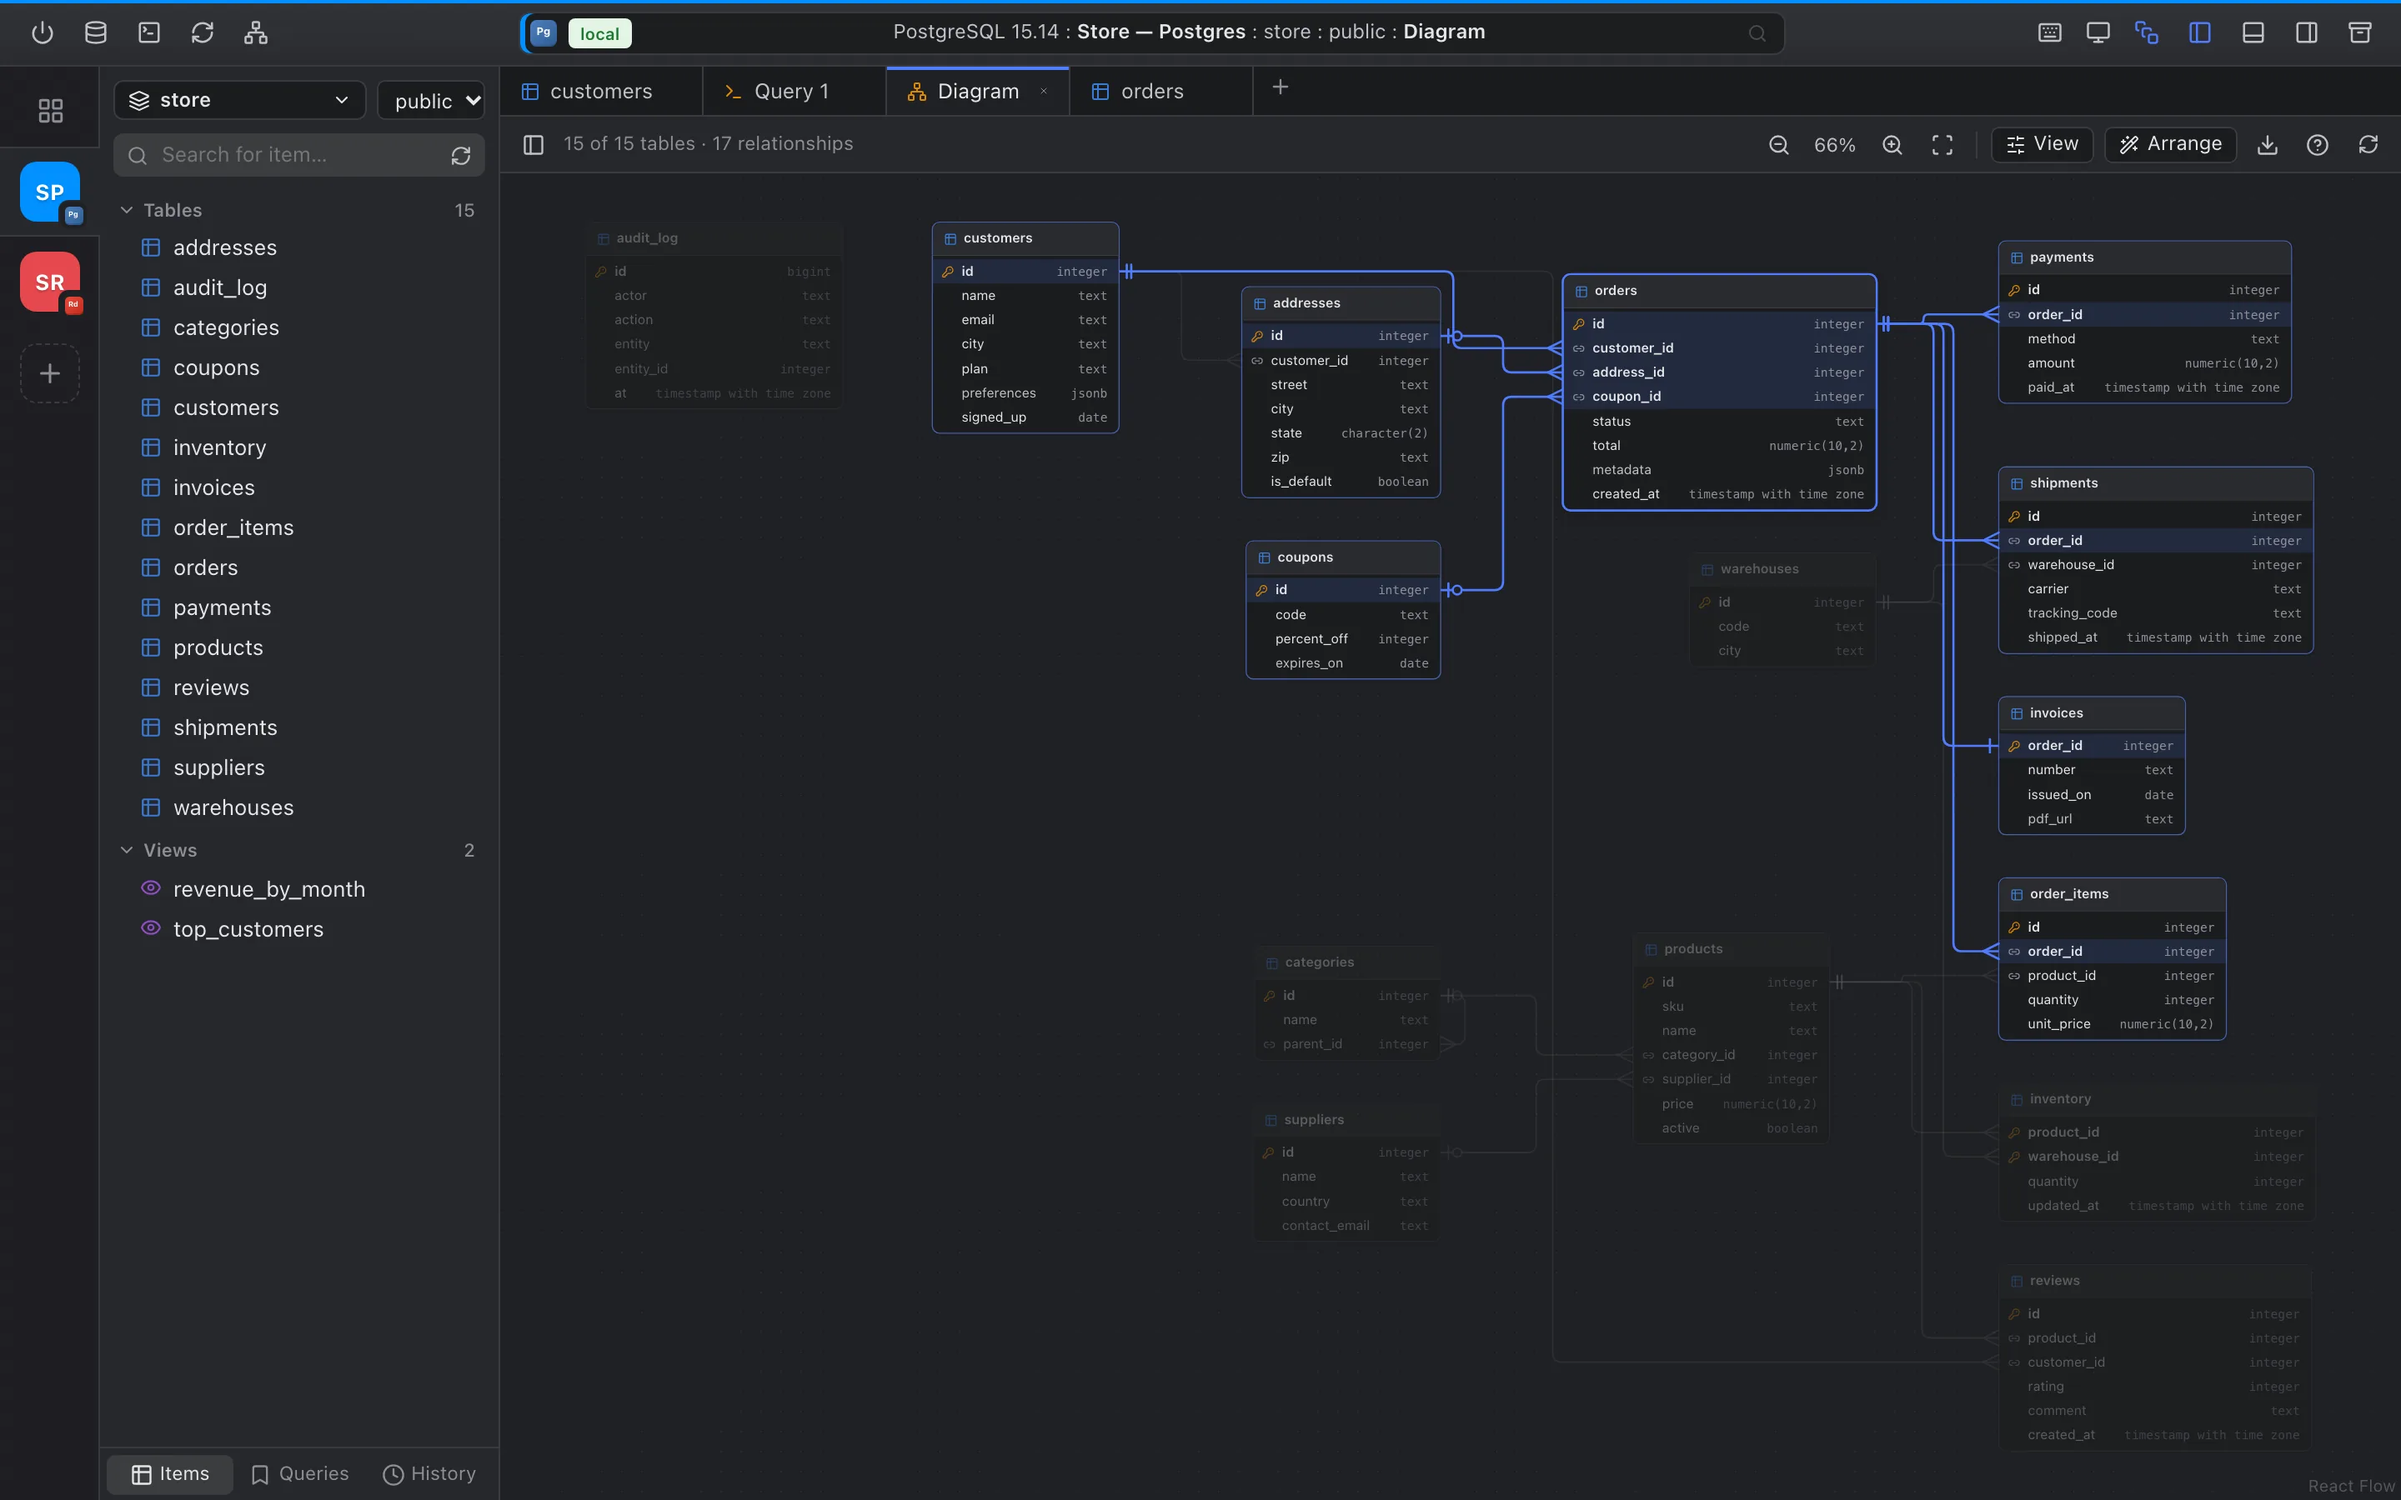
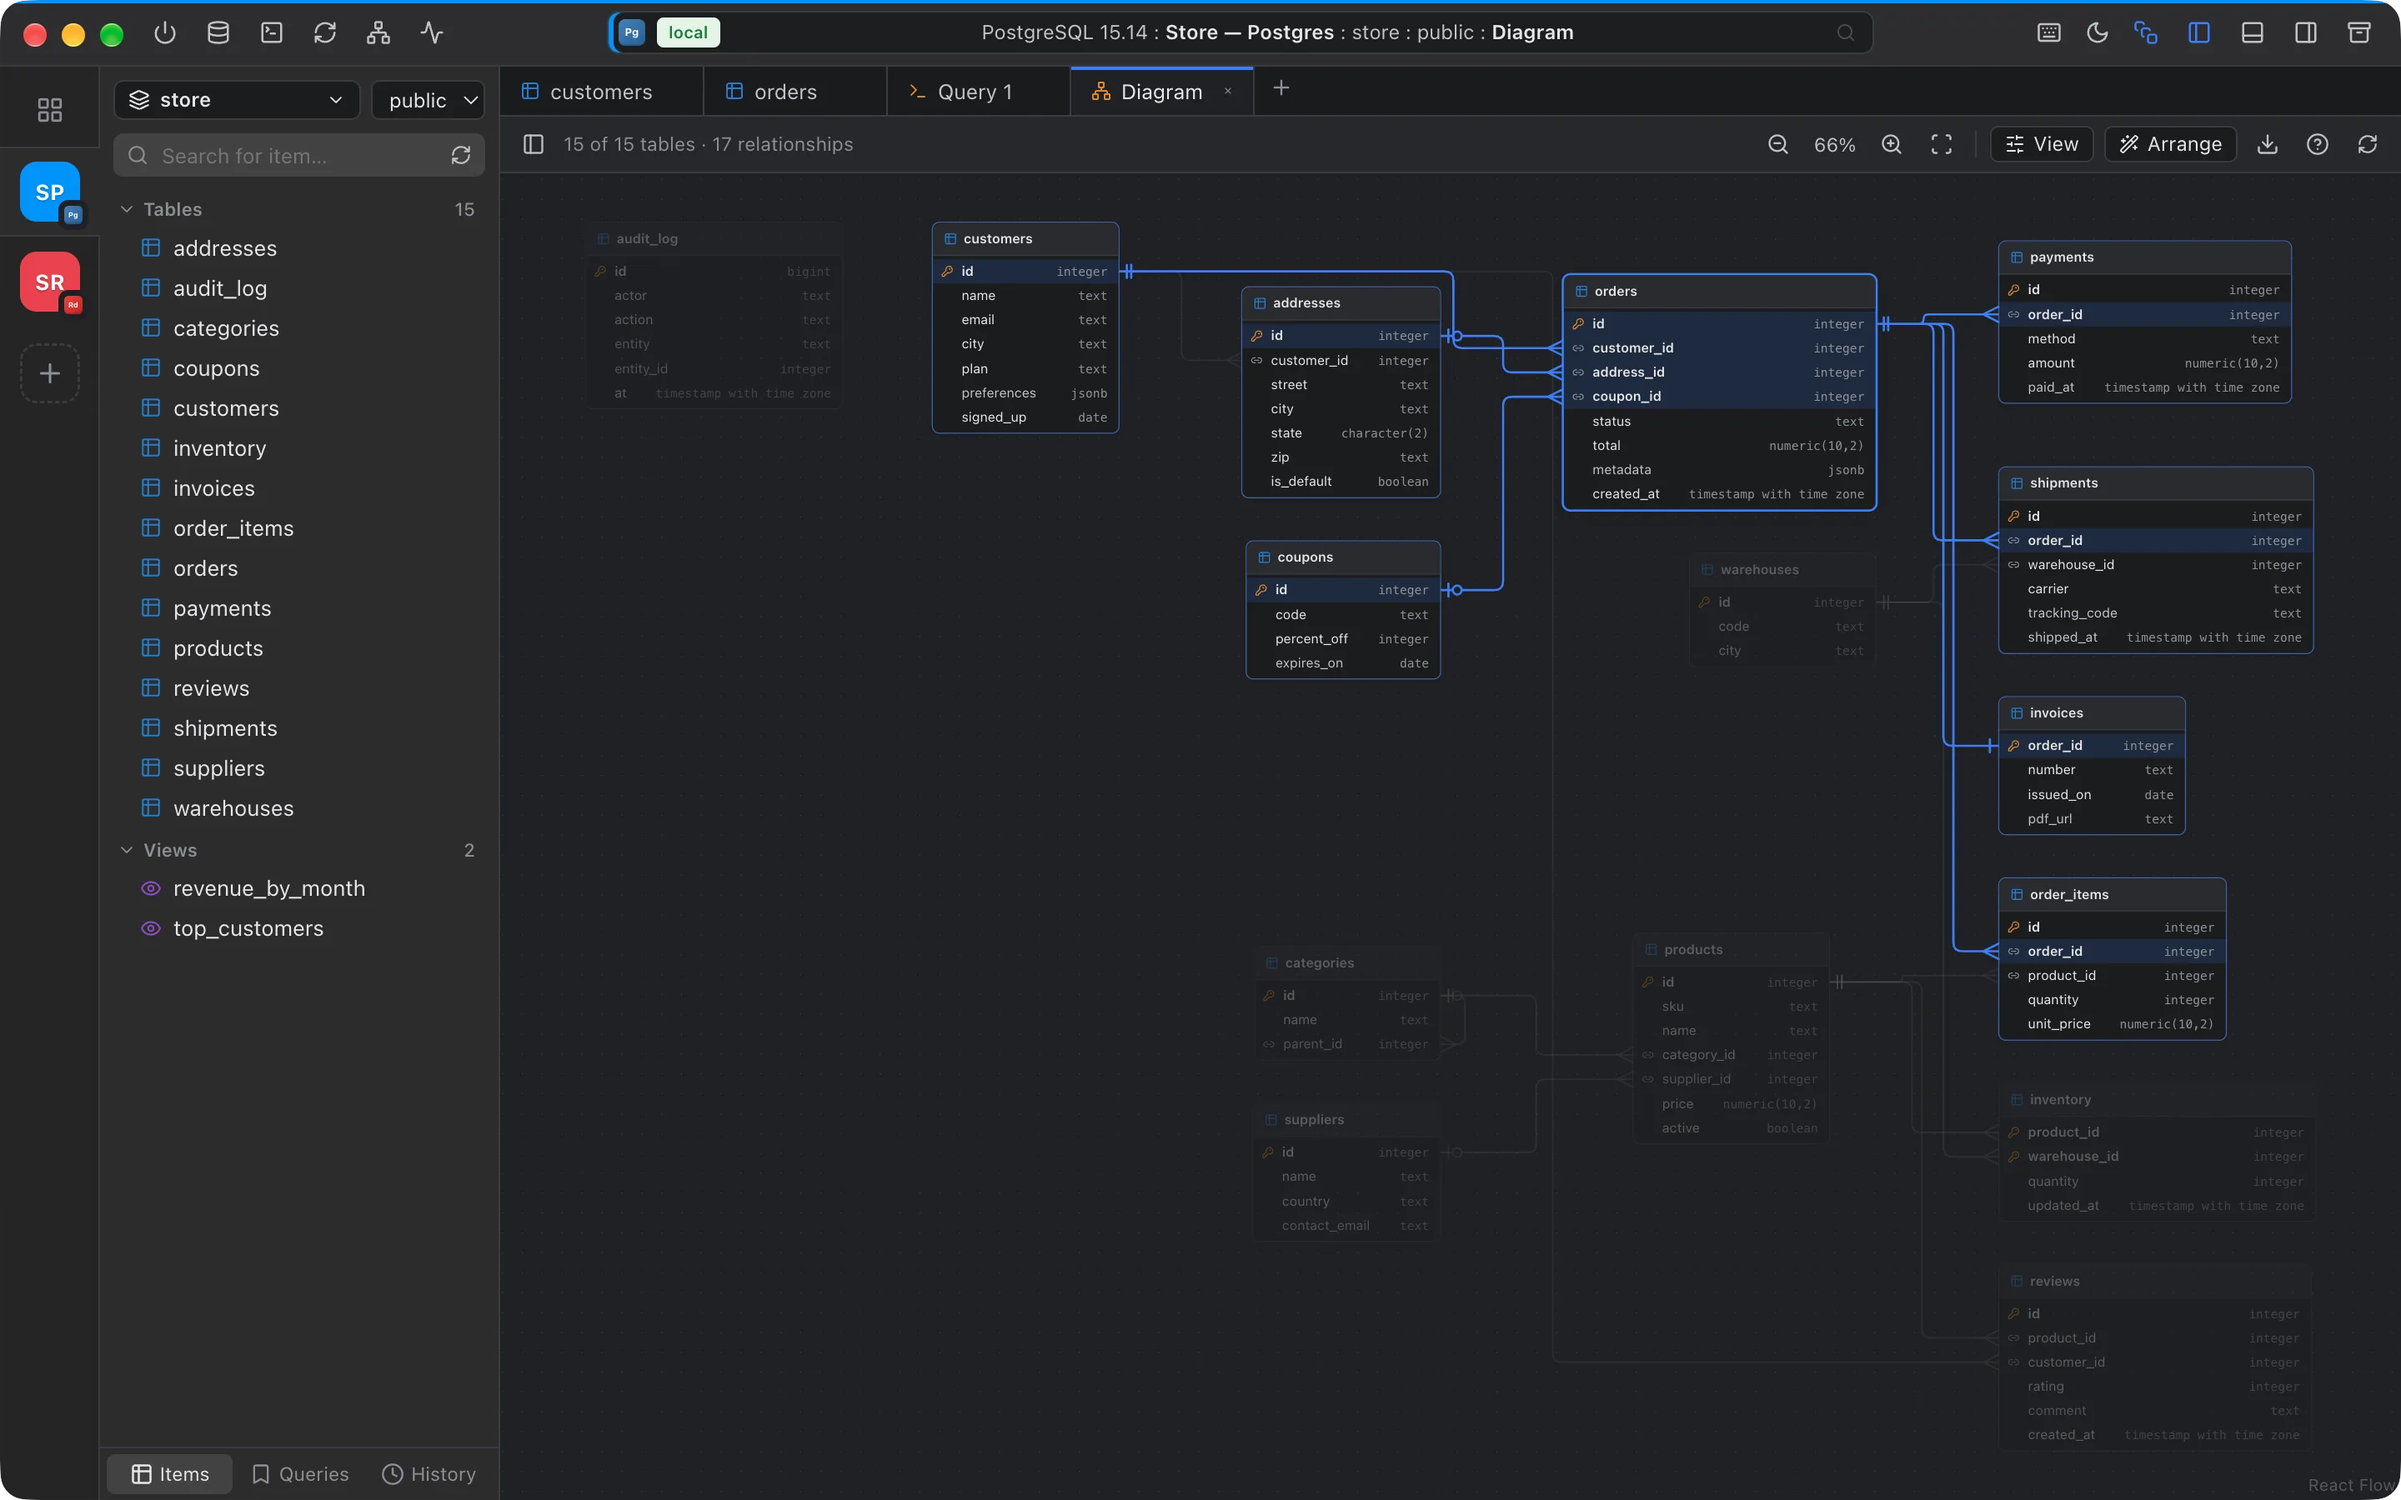
Screenshots of the macOS app (native window), and a macOS section with the light theme

diff --git a/index.html b/index.html
@@ -135,17 +135,10 @@
   .hero-shot { position: relative; margin-top: 72px; }
 
   /* App window */
-  .window {
-    border-radius: 14px; overflow: hidden;
-    background: var(--grafite);
-    border: 1px solid var(--line-strong);
-    box-shadow: 0 40px 120px -30px rgba(79,124,255,.35), 0 0 0 1px rgba(0,0,0,.4);
+  /* The screenshots are real macOS windows: their own title bar, rounded corners with transparency. */
+  .window img, .code-band img.shot {
+    filter: drop-shadow(0 0 1px rgba(255,255,255,.28)) drop-shadow(0 36px 60px rgba(79,124,255,.22));
   }
-  .window-bar { display: flex; align-items: center; gap: 8px; height: 36px; padding: 0 14px; border-bottom: 1px solid var(--line); background: #141417; }
-  .window-bar i { width: 11px; height: 11px; border-radius: 50%; background: #3f3f46; }
-  .window-bar span { margin-left: 10px; font: 500 12px/1 var(--sans); color: var(--muted); display: flex; align-items: center; gap: 6px; }
-  .window-bar span img { width: 14px; height: 14px; }
-  .hero-shot .window { border-bottom-left-radius: 0; border-bottom-right-radius: 0; border-bottom: 0; }
   .hero-shot::after {
     content: ""; position: absolute; left: 0; right: 0; bottom: 0; height: 35%;
     background: linear-gradient(to bottom, rgba(10,10,11,0), var(--onix));
@@ -212,7 +205,6 @@
   .code .t { color: var(--ciano); }
   .code .n { color: var(--violeta); }
   .code .s { color: var(--azul); }
-  .code-band img.shot { border-radius: 14px; border: 1px solid var(--line-strong); }
 
   /* Download */
   .download { text-align: center; position: relative; overflow: hidden; }
@@ -281,7 +273,6 @@
     .feature, .feature:nth-child(n) { border-right: 0; border-bottom: 1px solid var(--line); }
     .feature:last-child { border-bottom: 0; grid-column: auto; }
     .dbs ul { gap: 20px; }
-    .window-bar { height: 28px; }
     .tabs { width: 100%; flex-wrap: nowrap; gap: 2px; overflow-x: auto; scrollbar-width: none; }
     .tabs::-webkit-scrollbar { display: none; }
     .tabs button { flex: none; justify-content: center; padding: 0 12px; font-size: 13px; gap: 6px; }
@@ -325,8 +316,7 @@
       </div>
       <div class="hero-shot">
         <div class="window">
-          <div class="window-bar"><i></i><i></i><i></i><span><img src="assets/navql-icone.svg" alt="">NavQL</span></div>
-          <img src="assets/shots/table-1440.webp" srcset="assets/shots/table-1440.webp 1440w, assets/shots/table.webp 2880w" sizes="(max-width: 1180px) 100vw, 1132px" fetchpriority="high" alt="NavQL showing the customers table of a PostgreSQL database, with the list of tables and views on the left" width="2880" height="1800">
+          <img src="assets/shots/table-1440.webp" srcset="assets/shots/table-1440.webp 1440w, assets/shots/table.webp 2880w" sizes="(max-width: 1180px) 100vw, 1132px" fetchpriority="high" alt="NavQL on macOS showing the customers table of a PostgreSQL database, with the list of tables and views on the left" width="2880" height="1800">
         </div>
       </div>
     </div>
@@ -393,7 +383,7 @@
 
       <div class="panel" id="p-conn" role="tabpanel" aria-labelledby="t-conn">
         <div class="tour-grid">
-          <div class="window"><div class="window-bar"><i></i><i></i><i></i></div>
+          <div class="window">
             <img src="assets/shots/connections-1440.webp" srcset="assets/shots/connections-1440.webp 1440w, assets/shots/connections.webp 2880w" sizes="(max-width: 960px) 100vw, 800px" alt="NavQL connection list for the Store project: PostgreSQL, Redis, SQL Server and MongoDB connections, each with its own color and tag" loading="lazy" width="2880" height="1800"></div>
           <div class="tour-copy">
             <h3>Every connection at a glance</h3>
@@ -412,7 +402,7 @@
 
       <div class="panel" id="p-data" role="tabpanel" aria-labelledby="t-data" hidden>
         <div class="tour-grid">
-          <div class="window"><div class="window-bar"><i></i><i></i><i></i></div>
+          <div class="window">
             <img src="assets/shots/value-1440.webp" srcset="assets/shots/value-1440.webp 1440w, assets/shots/value.webp 2880w" sizes="(max-width: 960px) 100vw, 800px" alt="Data grid of the orders table with the JSON of a cell shown as a tree in the side panel" loading="lazy" width="2880" height="1800"></div>
           <div class="tour-copy">
             <h3>Data in a fast grid</h3>
@@ -430,7 +420,7 @@
 
       <div class="panel" id="p-query" role="tabpanel" aria-labelledby="t-query" hidden>
         <div class="tour-grid">
-          <div class="window"><div class="window-bar"><i></i><i></i><i></i></div>
+          <div class="window">
             <img src="assets/shots/query-1440.webp" srcset="assets/shots/query-1440.webp 1440w, assets/shots/query.webp 2880w" sizes="(max-width: 960px) 100vw, 800px" alt="Query editor with a SELECT grouping revenue by city and the result below" loading="lazy" width="2880" height="1800"></div>
           <div class="tour-copy">
             <h3>A real SQL editor</h3>
@@ -448,7 +438,7 @@
 
       <div class="panel" id="p-struct" role="tabpanel" aria-labelledby="t-struct" hidden>
         <div class="tour-grid">
-          <div class="window"><div class="window-bar"><i></i><i></i><i></i></div>
+          <div class="window">
             <img src="assets/shots/structure-1440.webp" srcset="assets/shots/structure-1440.webp 1440w, assets/shots/structure.webp 2880w" sizes="(max-width: 960px) 100vw, 800px" alt="Structure of the orders table: columns, types, indexes and foreign keys" loading="lazy" width="2880" height="1800"></div>
           <div class="tour-copy">
             <h3>Structure, demystified</h3>
@@ -464,7 +454,7 @@
 
       <div class="panel" id="p-diagram" role="tabpanel" aria-labelledby="t-diagram" hidden>
         <div class="tour-grid">
-          <div class="window"><div class="window-bar"><i></i><i></i><i></i></div>
+          <div class="window">
             <img src="assets/shots/diagram-1440.webp" srcset="assets/shots/diagram-1440.webp 1440w, assets/shots/diagram.webp 2880w" sizes="(max-width: 960px) 100vw, 800px" alt="Database diagram of a store schema: 15 tables connected by their foreign keys" loading="lazy" width="2880" height="1800"></div>
           <div class="tour-copy">
             <h3>Your schema as a diagram</h3>
@@ -481,7 +471,7 @@
       </div>
     <div class="panel" id="p-redis" role="tabpanel" aria-labelledby="t-redis" hidden>
         <div class="tour-grid">
-          <div class="window"><div class="window-bar"><i></i><i></i><i></i></div>
+          <div class="window">
             <img src="assets/shots/redis-1440.webp" srcset="assets/shots/redis-1440.webp 1440w, assets/shots/redis.webp 2880w" sizes="(max-width: 960px) 100vw, 800px" alt="Redis keys with the session prefix in a grid: key, type, TTL, size and value" loading="lazy" width="2880" height="1800"></div>
           <div class="tour-copy">
             <h3>Redis, in the same window</h3>
@@ -583,6 +573,23 @@
           <li>Double-click a table to open its data</li>
         </ul>
       </div>
+    </div>
+  </section>
+
+  <section style="padding-top:0">
+    <div class="wrap code-band">
+      <div class="tour-copy">
+        <span class="eyebrow">06 — macOS</span>
+        <h2>At home on the Mac.</h2>
+        <p style="color:var(--muted);font-size:17px;margin:0 0 28px">NavQL is a real Mac app, with a window that looks and behaves like the rest of your system.</p>
+        <ul>
+          <li>Light and dark themes, or follow the system</li>
+          <li>Translucent sidebar and toolbar</li>
+          <li>Window controls in the toolbar, with no title bar taking up space</li>
+          <li>Built for Apple Silicon</li>
+        </ul>
+      </div>
+      <img class="shot" src="assets/shots/table-light-1440.webp" srcset="assets/shots/table-light-1440.webp 1440w, assets/shots/table-light.webp 2880w" sizes="(max-width: 960px) 100vw, 560px" alt="NavQL on macOS in the light theme, showing the customers table" loading="lazy" width="2880" height="1800">
     </div>
   </section>
 
